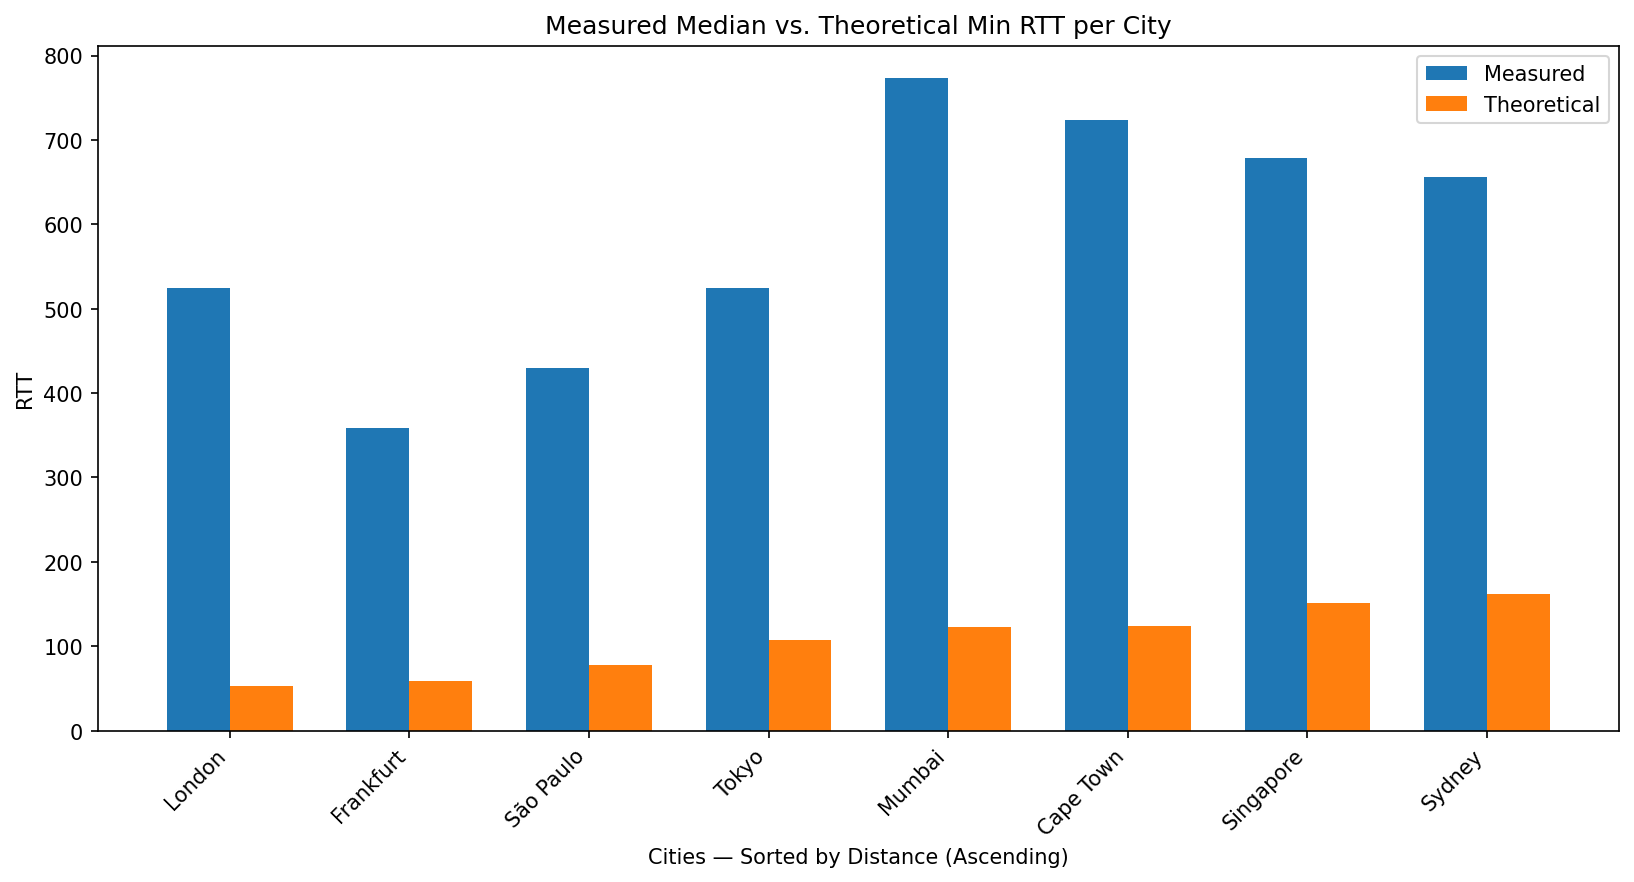
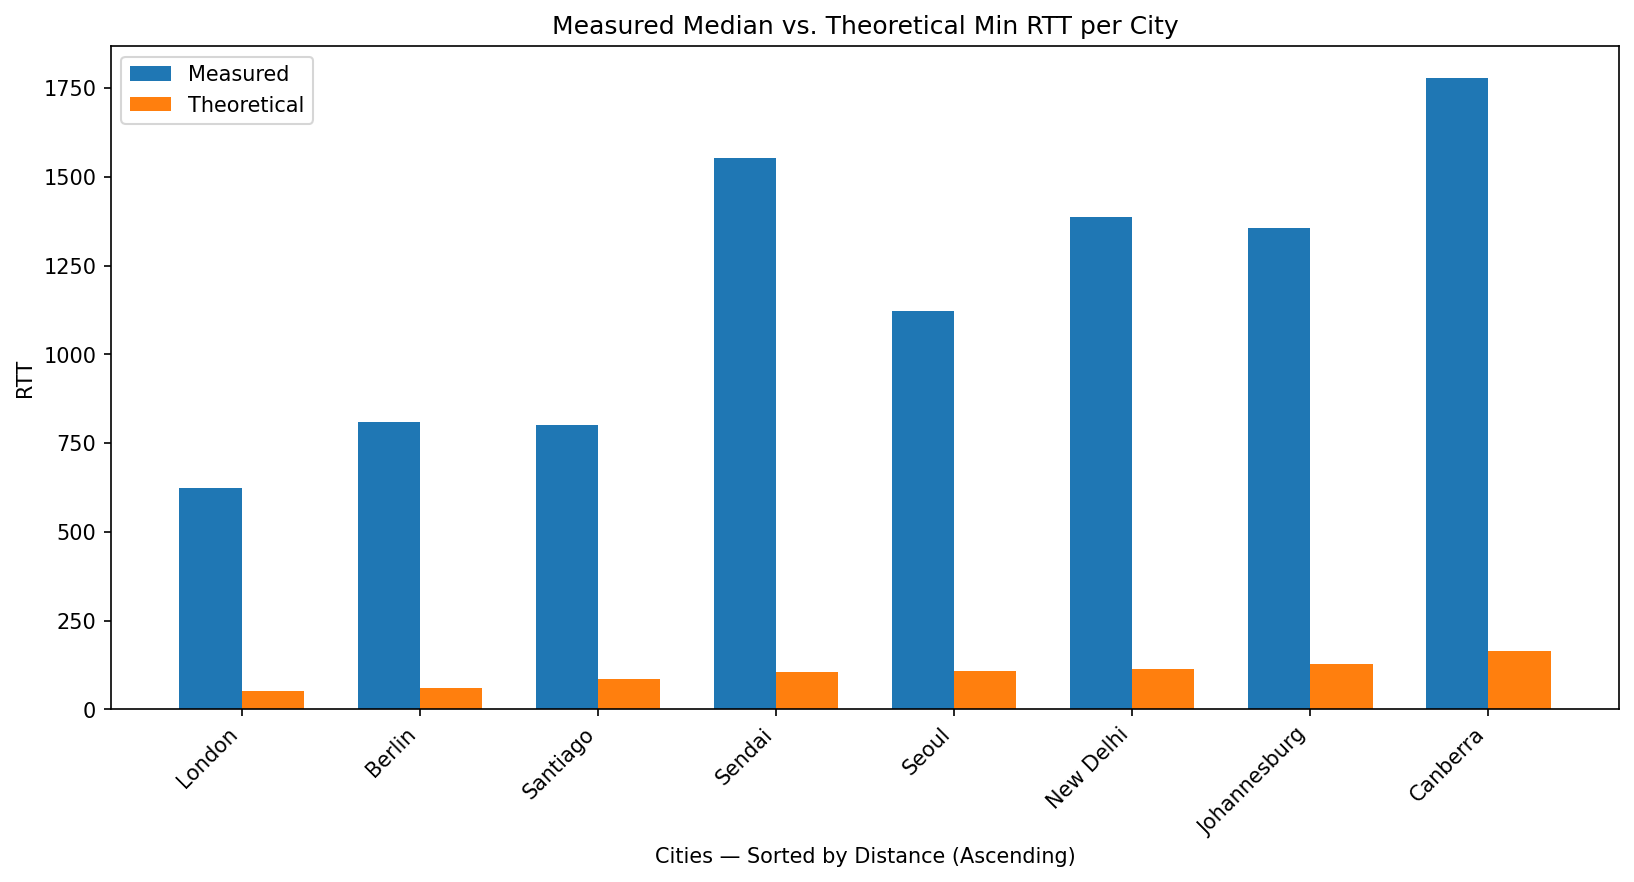
Updated targets

diff --git a/rtt_speedoflight.py b/rtt_speedoflight.py
@@ -26,16 +26,27 @@ TARGETS = {
     "Singapore":    {"url": "http://www.google.com.sg",  "coords": (1.3521,   103.8198), "continent": "Asia"},
 }
 
-# TARGETS = {
-#     "Tokyo":     {"url": "http://ec2.ap-northeast-1.amazonaws.com",  "coords": (35.6762,  139.6503), "continent": "Asia"},
-#     "São Paulo": {"url": "http://ec2.sa-east-1.amazonaws.com",       "coords": (-23.5505, -46.6333), "continent": "S. America"},
-#     "Frankfurt": {"url": "http://ec2.eu-central-1.amazonaws.com",    "coords": (50.1109,    8.6821), "continent": "Europe"},
-#     "Sydney":    {"url": "http://ec2.ap-southeast-2.amazonaws.com",  "coords": (-33.8688, 151.2093), "continent": "Oceania"},
-#     "Mumbai":    {"url": "http://ec2.ap-south-1.amazonaws.com",      "coords": (19.0760,   72.8777), "continent": "Asia"},
-#     "London":    {"url": "http://ec2.eu-west-2.amazonaws.com",       "coords": (51.5074,   -0.1278), "continent": "Europe"},
-#     "Singapore": {"url": "http://ec2.ap-southeast-1.amazonaws.com",  "coords": (1.3521,   103.8198), "continent": "Asia"},
-#     "Cape Town": {"url": "http://ec2.af-south-1.amazonaws.com",      "coords": (-33.9249,  18.4241), "continent": "Africa"},
-# }
+TARGETS = {
+    "Tokyo":     {"url": "http://ec2.ap-northeast-1.amazonaws.com",  "coords": (35.6762,  139.6503), "continent": "Asia"},
+    "São Paulo": {"url": "http://ec2.sa-east-1.amazonaws.com",       "coords": (-23.5505, -46.6333), "continent": "S. America"},
+    "Frankfurt": {"url": "http://ec2.eu-central-1.amazonaws.com",    "coords": (50.1109,    8.6821), "continent": "Europe"},
+    "Sydney":    {"url": "http://ec2.ap-southeast-2.amazonaws.com",  "coords": (-33.8688, 151.2093), "continent": "Oceania"},
+    "Mumbai":    {"url": "http://ec2.ap-south-1.amazonaws.com",      "coords": (19.0760,   72.8777), "continent": "Asia"},
+    "London":    {"url": "http://ec2.eu-west-2.amazonaws.com",       "coords": (51.5074,   -0.1278), "continent": "Europe"},
+    "Singapore": {"url": "http://ec2.ap-southeast-1.amazonaws.com",  "coords": (1.3521,   103.8198), "continent": "Asia"},
+    "Cape Town": {"url": "http://ec2.af-south-1.amazonaws.com",      "coords": (-33.9249,  18.4241), "continent": "Africa"},
+}
+
+TARGETS = {
+    "Sendai":       {"url": "http://www.tohoku.ac.jp",  "coords": (38.2682, 140.8694), "continent": "Asia"},
+    "Seoul":        {"url": "http://www.snu.ac.kr",     "coords": (37.5665, 126.9780), "continent": "Asia"},
+    "New Delhi":    {"url": "http://www.iitd.ac.in",    "coords": (28.6139,  77.2090), "continent": "Asia"},
+    "Santiago":     {"url": "http://www.uchile.cl",     "coords": (-33.4489, -70.6693), "continent": "S. America"},
+    "Johannesburg": {"url": "http://www.wits.ac.za",    "coords": (-26.2041,  28.0473), "continent": "Africa"},
+    "Berlin":       {"url": "http://www.fu-berlin.de",  "coords": (52.5200,  13.4050), "continent": "Europe"},
+    "London":       {"url": "http://www.imperial.ac.uk","coords": (51.5074,  -0.1278), "continent": "Europe"},
+    "Canberra":     {"url": "http://www.anu.edu.au",    "coords": (-35.2809, 149.1300), "continent": "Oceania"},
+}
 
 PROBES           = 15
 FIBER_SPEED_KM_S = 200_000

diff --git a/analysis.md b/analysis.md
@@ -2,15 +2,15 @@
 ## City Probing Analysis
 
 ### Preface
-After creating the `measure_rtt()` probing function, I was using the provided country-specific Google domains (google.co.jp, google.de, etc.), and getting approximately 300 ms to Singapore, but at some point this was reduced to around 140 ms as seen in the figures. This was likely a result of caching, but it revealed that an actual routing to Singapore was not being done, as it was below the minimum RTT. Traceroute revealed no sign of crossing the pacific, only showing routing to New York, meaning it likely was routed to a US google CDN. This resulted in the figures shown with little difference in median RTT vs. distance. To actually measure intercontinental RTT, I tried using the Amazon EC2 domains, which was routing to the destinations and gave a more expected trend in median RTT vs. distance. These domains contain more overhead and therefore have higher inefficiency ratios that expected.
+After creating the `measure_rtt()` probing function, I was using the provided country-specific Google domains (google.co.jp, google.de, etc.), and getting approximately 300 ms to Singapore, but at some point this was reduced to around 140 ms as seen in the figures. This was likely a result of caching, but it revealed that an actual routing to Singapore was not being done, as it was below the minimum RTT. Traceroute revealed no sign of crossing the pacific, only showing routing to New York, meaning it likely was routed to a US google CDN. This resulted in the figures shown with little difference in median RTT vs. distance. A second given set of university URLs as targets was done for this analysis here, but those involved much more content than a google page and had much higher RTTs.
 
 
 ### Largest Inefficiency Ratio
-My results gave London having the largest inefficiency ratio for the Amazon domains, where its RTT was similar to Tokyo despite being much closer. This is counterintuitive because London is the closest of all eight targets and is densely connected with transatlantic cables, where the EXA North/South plus the EXA express route right to the UK. This means the larger overhead dominated the propogation time, which is seen as the ratio decreases over distance generally speaking.
+My results gave Tohoku University in Sendai having the largest inefficiency ratio of `14.81`. Looking at submarinecablemap.com, Sendai itself isn't a direct cable landing point, being about 300 km north of Tokyo on Japan's Pacific coast. Japan's major international cable landings are clustered all in the Tokyo region or further south. There are submarine cables from Sendai, but they route to Tokyo before going international. Still, it's similar in geographic distance to Seoul National University, but likely is more inefficient from their webpage having more content or redirects.
 
 
 ### Closest to Minimum RTT
-Frankfurt was the closest with `358.5 - 59.0 = 299.5 ms`, which makes sense as even though it is a bit inland, it is a central European hub with strong fiber connections to the transatlantic cables, and is far enough away to avoid the overhead inefficiency cost that London had. DE-CIX Frankfurt is also the leading Internet Exchange, with great connection to Boston.
+Universidad de Chile in Santiago had the smallest gap at `716ms` (800ms measured − 84ms theoretical), which is quite interesting. Chile is geographically remote from major internet hubs, so you would expect worse routing than some of the other locations, but looking at submarinecablemap.com, Santiago to LA is served by the Curie cable owned by Google. This cable also goes through Panama, which has many cables connecting to the eastern US coast up to New York. This is likely the reason for the efficient routing.
 
 ### Africa Routing through Europe
-Europe has extremely high network demand and therefore have developed strong hubs. These have meant that routing up to Europe and using the existing strong Europe-America infrastracture is more cost effective than creating new America-Africa infrastructure. Additionally, there is also a cable to Brazil, which allows for the use of the cables running up the western Atlantic. Europe has also always had strong connections to Africa geopolitically, so this is demonstrating another example of that.
+Europe has extremely high network demand and therefore have developed strong hubs. These have meant that routing up to Europe and using the existing strong Europe-America infrastracture is more cost effective than creating new America-Africa infrastructure. Additionally, there are a few cables to Brazil, which allow for the use of the cables running up the western Atlantic, but there are not that many and this is likely due to not a strong demand for network connections between Africa and the Americas. Europe has also historically had strong connections to and influence in Africa geopolitically, so this is demonstrating another example of Europes strong ties to Africa.
